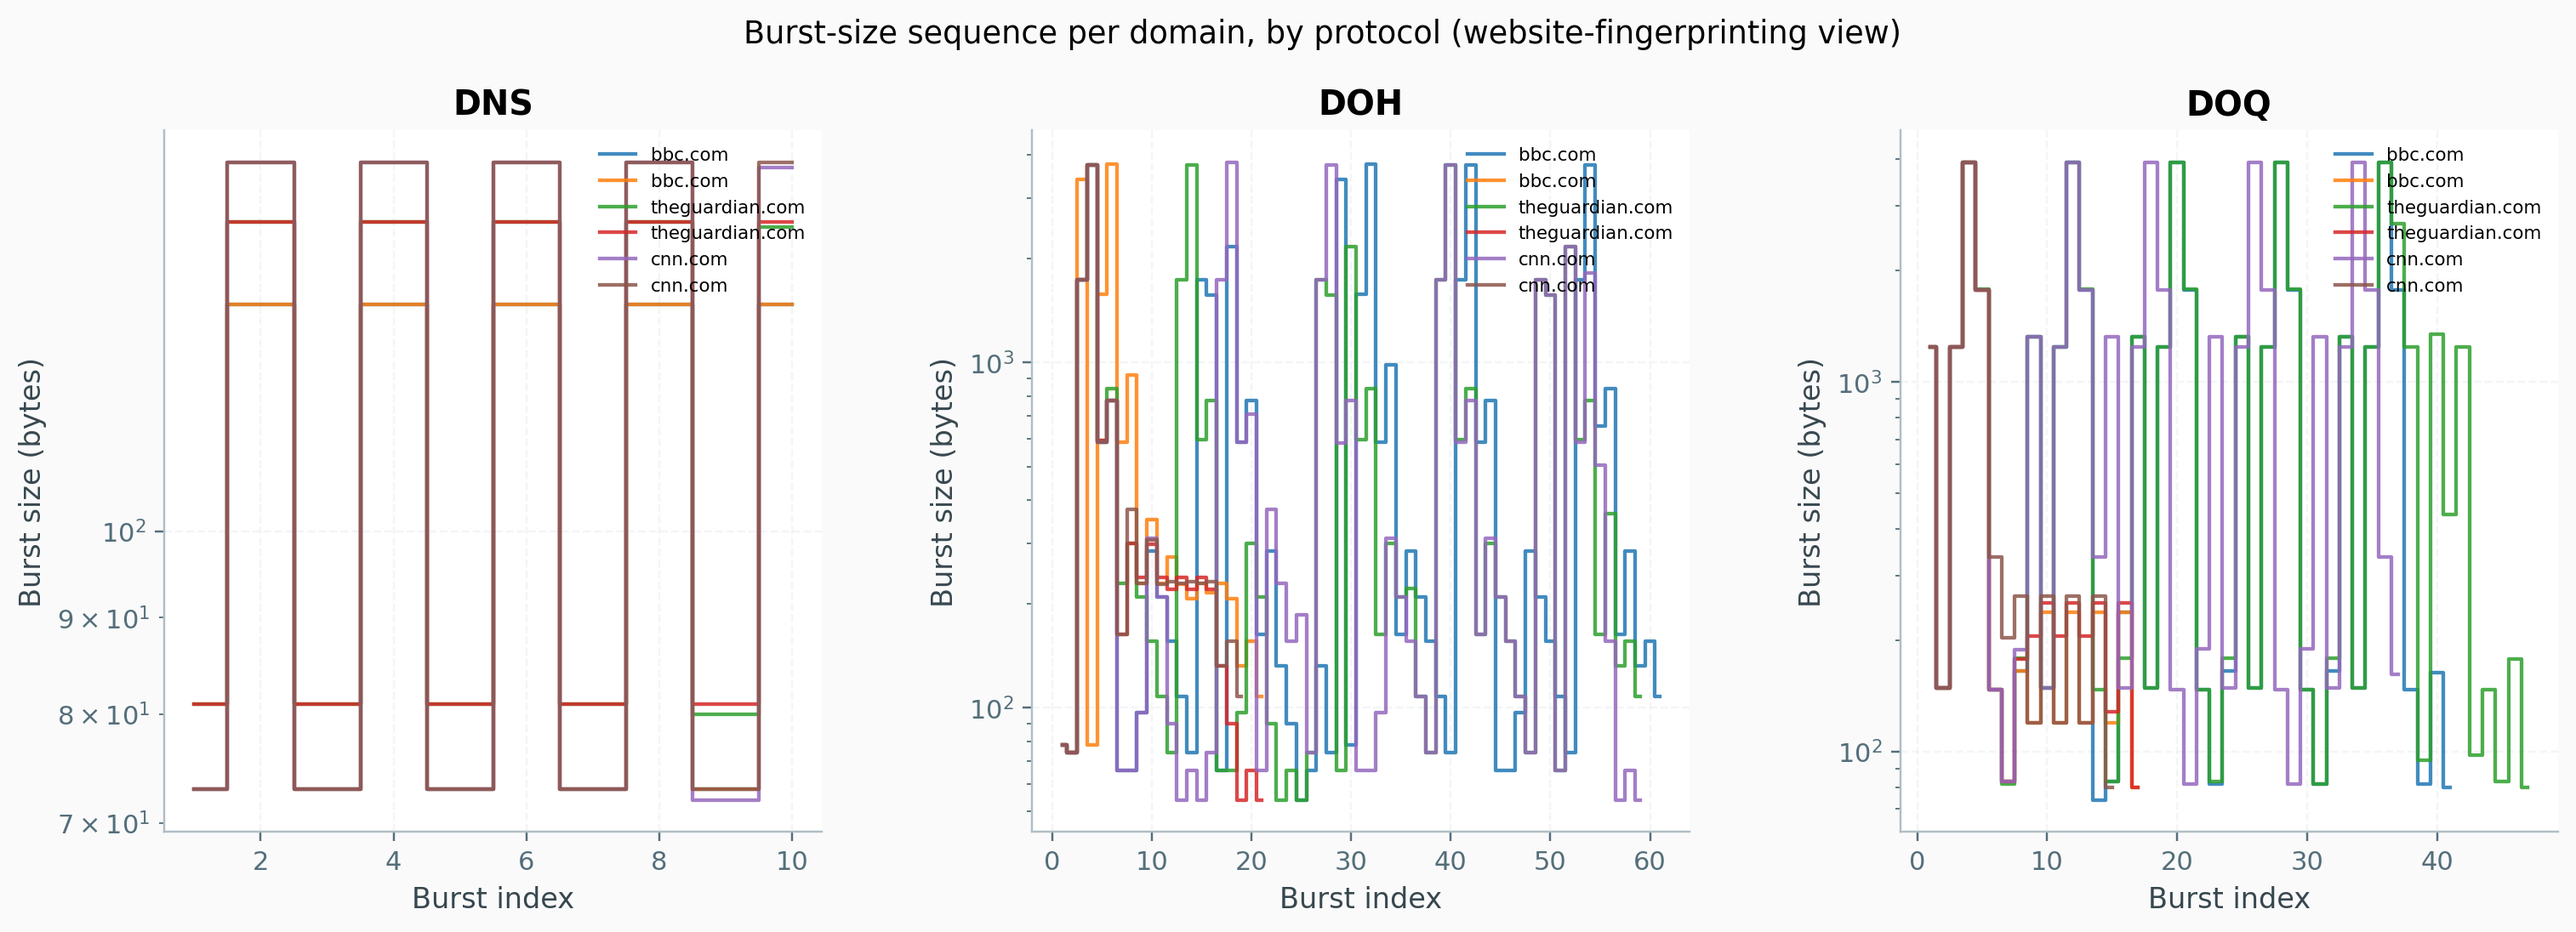
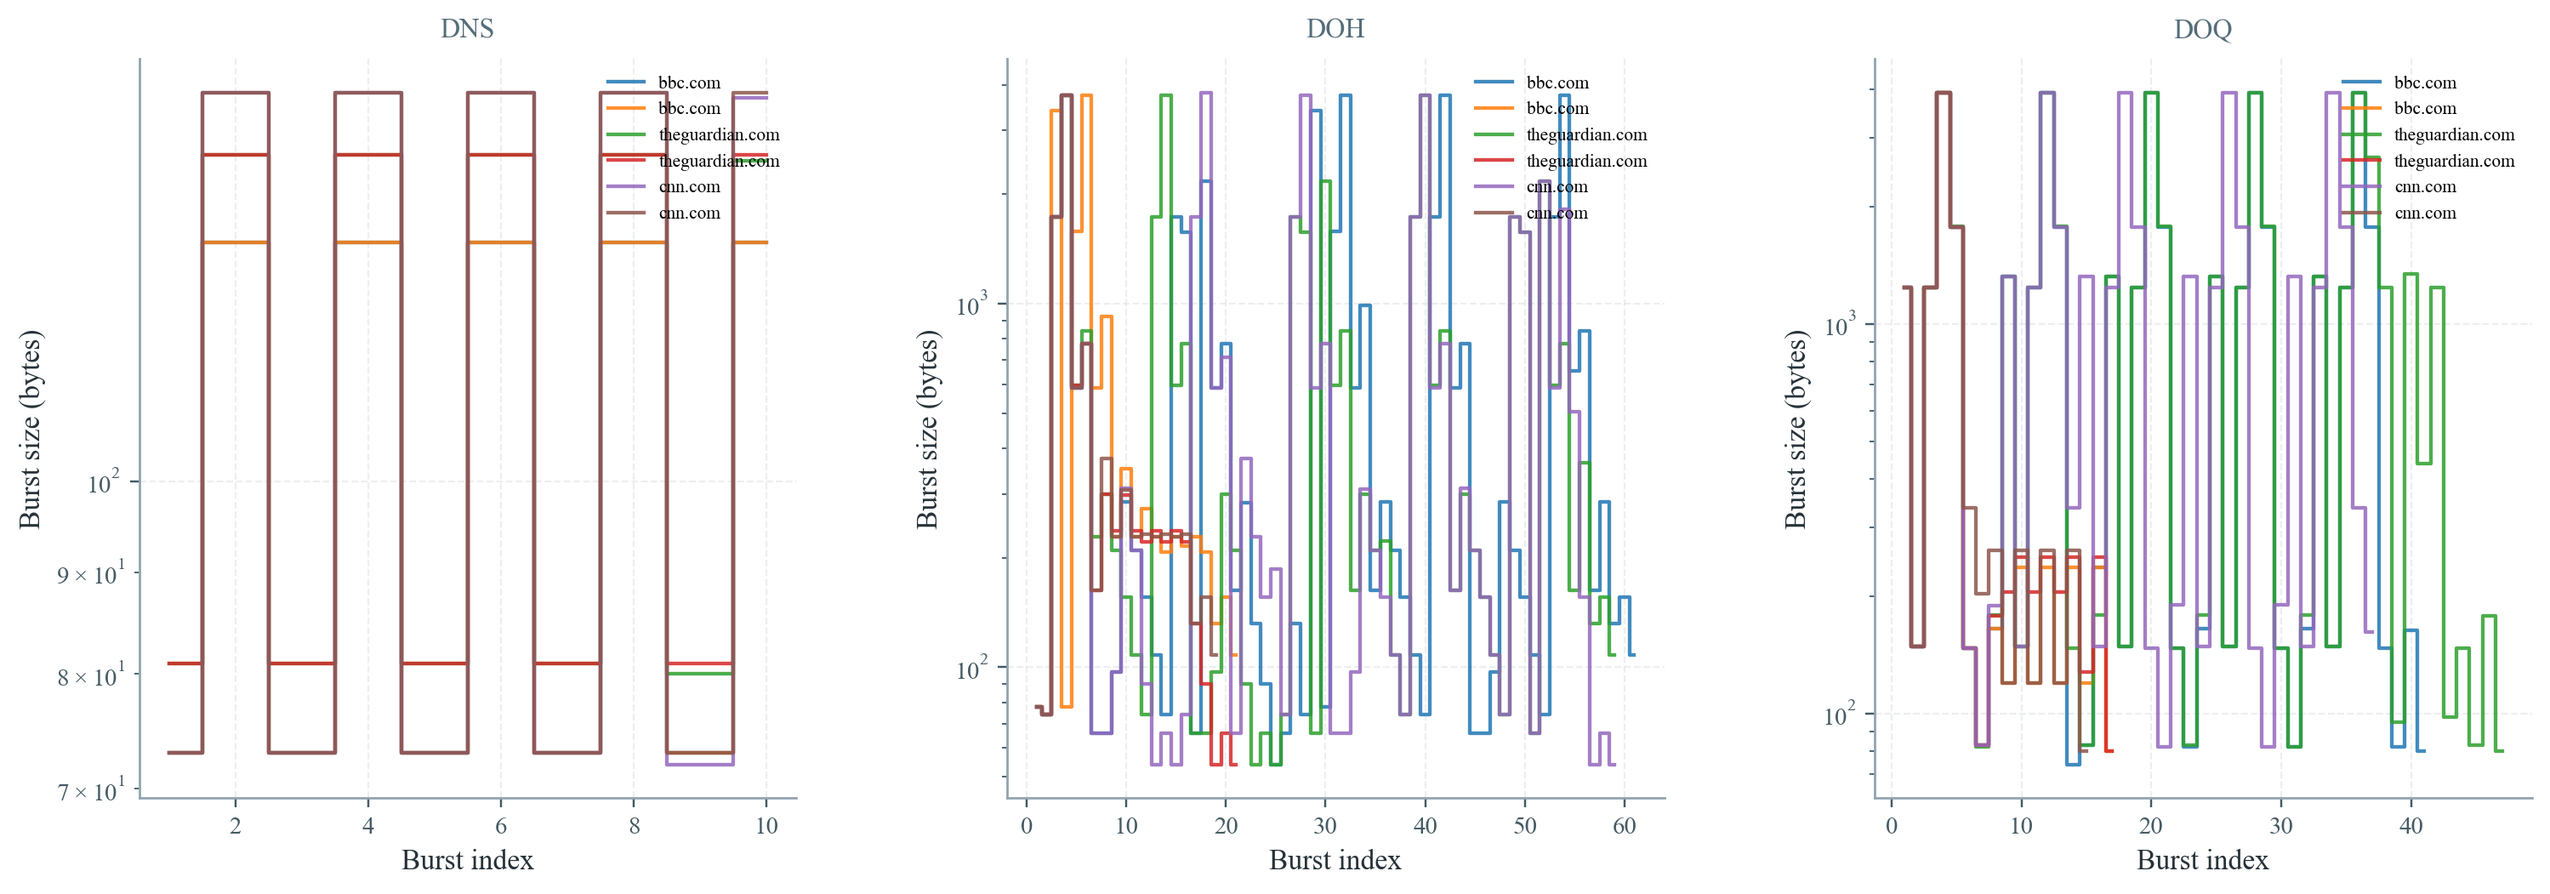
last_changes

diff --git a/src/run_analysis.py b/src/run_analysis.py
@@ -59,20 +59,31 @@ ORIGIN_LABELS = {
 }
 
 PLOT_STYLE = {
-    "figure.facecolor": "#FAFAFA",
+    "figure.facecolor": "#FFFFFF",
     "axes.facecolor": "#FFFFFF",
-    "axes.edgecolor": "#B0BEC5",
-    "axes.labelcolor": "#37474F",
-    "axes.titleweight": "600",
-    "axes.titlesize": 13,
+    "axes.edgecolor": "#90A4AE",
+    "axes.linewidth": 0.9,
+    "axes.labelcolor": "#263238",
     "axes.labelsize": 11,
-    "xtick.color": "#546E7A",
-    "ytick.color": "#546E7A",
-    "font.family": "sans-serif",
-    "font.sans-serif": ["DejaVu Sans", "Arial", "Helvetica"],
-    "grid.color": "#ECEFF1",
-    "grid.linewidth": 0.8,
+    "axes.labelweight": "500",
+    "xtick.color": "#455A64",
+    "ytick.color": "#455A64",
+    "xtick.labelsize": 9.5,
+    "ytick.labelsize": 9.5,
+    "font.family": "serif",
+    "font.serif": ["Nimbus Roman", "Times New Roman", "DejaVu Serif"],
+    "grid.color": "#E0E4E7",
+    "grid.linewidth": 0.7,
+    "legend.fontsize": 9,
+    "legend.frameon": False,
 }
+
+# Small, muted style for panel labels inside multi-panel figures (e.g. the
+# dashboard, or a bar+pie pair showing the same data two ways). These are
+# navigational aids for telling subplots apart, not a figure title: the
+# figure title itself lives only in the LaTeX \caption, never inside the
+# image, so it is never duplicated on the page.
+PANEL_LABEL_STYLE = {"fontsize": 10.5, "color": "#546E7A", "fontweight": "500", "pad": 8}
 
 
 ## AÑADIR JUSTIFICACIONES ???
@@ -467,7 +478,6 @@ def _plot_dns_protocol_comparison(path: Path, dns_summary: list[dict[str, Any]])
     fig, ax = plt.subplots(figsize=(8.5, 5.8))
     bars = ax.bar(labels, values, color=colors, width=0.58, edgecolor="white", linewidth=1.2)
 
-    ax.set_title("Median DNS traffic by protocol", pad=18)
     ax.set_ylabel("Bytes per resolution (median)")
     ax.set_yscale("log")
     ax.grid(axis="y", linestyle="--", alpha=0.9)
@@ -490,7 +500,7 @@ def _plot_dns_protocol_comparison(path: Path, dns_summary: list[dict[str, Any]])
             bbox={"boxstyle": "round,pad=0.35", "facecolor": "#ECEFF1", "edgecolor": "none"},
         )
 
-    fig.subplots_adjust(top=0.90, bottom=0.16)
+    fig.subplots_adjust(top=0.96, bottom=0.16)
     fig.text(
         0.12,
         0.05,
@@ -522,8 +532,7 @@ def _plot_dns_co2_by_protocol(path: Path, dns_summary: list[dict[str, Any]]) -> 
     fig, ax = plt.subplots(figsize=(8.5, 5.8))
     bars = ax.bar(labels, values, color=colors, width=0.58, edgecolor="white", linewidth=1.2)
 
-    ax.set_title("Median estimated CO₂ per resolution, by protocol", pad=18)
-    ax.set_ylabel("kg CO₂e (5 repetitions, median)")
+    ax.set_ylabel("kg CO$_2$e (5 repetitions, median)")
     ax.grid(axis="y", linestyle="--", alpha=0.9)
     ax.spines["top"].set_visible(False)
     ax.spines["right"].set_visible(False)
@@ -534,7 +543,7 @@ def _plot_dns_co2_by_protocol(path: Path, dns_summary: list[dict[str, Any]]) -> 
             ha="center", va="bottom", fontsize=9, color="#37474F",
         )
 
-    fig.subplots_adjust(top=0.90, bottom=0.14)
+    fig.subplots_adjust(top=0.96, bottom=0.14)
     fig.text(
         0.12, 0.04,
         "Same energy/CO2 model as the rest of the run (bytes measured × energy-per-byte × grid intensity)",
@@ -582,14 +591,13 @@ def _plot_overhead_breakdown(path: Path, dns_summary: list[dict[str, Any]]) -> b
         if total > 0 and h > 0:
             ax.text(i, total * 1.02, f"{h / total * 100:.0f}% handshake", ha="center", fontsize=8.5, color="#546E7A")
 
-    ax.set_title("Overhead breakdown by protocol", pad=18)
     ax.set_ylabel("Bytes per experiment (5 repetitions)")
     ax.legend(frameon=False, loc="upper left")
     ax.grid(axis="y", linestyle="--", alpha=0.9)
     ax.spines["top"].set_visible(False)
     ax.spines["right"].set_visible(False)
 
-    fig.subplots_adjust(top=0.90, bottom=0.12)
+    fig.subplots_adjust(top=0.96, bottom=0.12)
     fig.text(
         0.12, 0.03,
         "Decrypted with saved TLS/QUIC session keys · DoQ short-header bytes mix real "
@@ -641,7 +649,7 @@ def _plot_burst_patterns(path: Path, dns_bursts: list[dict[str, Any]], max_domai
                 label=entry.get("domain") or entry.get("site_label") or "?",
             )
             plotted += 1
-        ax.set_title(protocol.upper())
+        ax.set_title(protocol.upper(), **PANEL_LABEL_STYLE)
         ax.set_xlabel("Burst index")
         ax.set_ylabel("Burst size (bytes)")
         ax.set_yscale("log")
@@ -651,8 +659,7 @@ def _plot_burst_patterns(path: Path, dns_bursts: list[dict[str, Any]], max_domai
         if plotted:
             ax.legend(fontsize=7, frameon=False, loc="upper right")
 
-    fig.suptitle("Burst-size sequence per domain, by protocol (website-fingerprinting view)", fontsize=12)
-    fig.subplots_adjust(top=0.86, wspace=0.32)
+    fig.subplots_adjust(top=0.90, wspace=0.32)
     _save_figure(plt, path)
     return True
 
@@ -698,7 +705,6 @@ def _plot_web_overhead_scatter(path: Path, web_rows: list[dict[str, str]]) -> bo
     ax.set_yscale("log")
     ax.set_xlabel("CDP bytes (browser payload)")
     ax.set_ylabel("PCAP bytes (network capture)")
-    ax.set_title(f"Network overhead across {len(web_rows)} site visits", pad=14)
     ax.grid(True, which="both", linestyle="--", alpha=0.5)
     ax.spines["top"].set_visible(False)
     ax.spines["right"].set_visible(False)
@@ -759,7 +765,6 @@ def _plot_web_bytes_by_category(path: Path, web_rows: list[dict[str, str]]) -> b
     ax.set_xticklabels([_category_label(c) for c in categories], rotation=30, ha="right")
     ax.set_xlim(min(positions_pcap) - 1.1, max(positions_cdp) + 1.1)
     ax.set_ylabel("Bytes (log scale)")
-    ax.set_title("Web traffic by category: network capture vs browser payload", pad=14)
     ax.grid(axis="y", linestyle="--", alpha=0.7)
     ax.spines["top"].set_visible(False)
     ax.spines["right"].set_visible(False)
@@ -806,17 +811,15 @@ def _plot_overhead_by_category(path: Path, web_rows: list[dict[str, str]]) -> bo
     ax.set_xticks(range(1, len(categories) + 1))
     ax.set_xticklabels([_category_label(c) for c in categories], rotation=30, ha="right")
     ax.set_ylabel("PCAP vs CDP overhead (%)")
-    ax.set_title("Network overhead by category", pad=34)
-    # Outside the axes, not "upper right" - an in-plot legend collided with
+    # Outside the axes, not "upper right": an in-plot legend collided with
     # real outlier points for whichever rightmost category happened to have
     # a high overhead value that run (e.g. netflix's 878.7% sat right behind
-    # the legend box and was easy to miss). Placed above the title (not just
-    # above the axes) so it doesn't collide with that either.
-    ax.legend(frameon=False, loc="lower center", bbox_to_anchor=(0.5, 1.1), ncol=1)
+    # the legend box and was easy to miss).
+    ax.legend(frameon=False, loc="lower center", bbox_to_anchor=(0.5, 1.04), ncol=1)
     ax.grid(axis="y", linestyle="--", alpha=0.7)
     ax.spines["top"].set_visible(False)
     ax.spines["right"].set_visible(False)
-    fig.subplots_adjust(top=0.85)
+    fig.subplots_adjust(top=0.90)
     _save_figure(plt, path)
     return True
 
@@ -851,8 +854,7 @@ def _plot_cfp_by_category(path: Path, web_category_summary: list[dict[str, Any]]
     )
     ax.set_xticks(range(len(categories)))
     ax.set_xticklabels([_category_label(c) for c in categories], rotation=30, ha="right")
-    ax.set_ylabel("Median CO₂ per page load (kg CO₂e), error bars = IQR")
-    ax.set_title("Estimated carbon footprint by site category", pad=14)
+    ax.set_ylabel("Median CO$_2$ per page load (kg CO$_2$e), error bars = IQR")
     ax.grid(axis="y", linestyle="--", alpha=0.7)
     ax.spines["top"].set_visible(False)
     ax.spines["right"].set_visible(False)
@@ -916,7 +918,6 @@ def _plot_origin_distribution(path: Path, origin_summary: list[dict[str, Any]]) 
     ax_bar.set_yticklabels(labels, fontsize=11)
     ax_bar.invert_yaxis()
     ax_bar.set_xlabel("Total CDP bytes")
-    ax_bar.set_title("CDP traffic by resource origin", pad=14, fontsize=13, fontweight="600")
     ax_bar.set_xlim(0, xmax)
     ax_bar.xaxis.set_major_locator(MaxNLocator(nbins=5))
     ax_bar.xaxis.set_major_formatter(
@@ -955,15 +956,15 @@ def _plot_origin_distribution(path: Path, origin_summary: list[dict[str, Any]]) 
         frameon=False,
         fontsize=10,
     )
-    ax_pie.set_title("Percentage breakdown", pad=12, fontsize=12)
+    ax_pie.set_title("Percentage breakdown", **PANEL_LABEL_STYLE)
 
     fig.text(
         0.01, 0.01,
         "Tracker/ads share is a high-confidence subset (precision over recall, see Issue "
-        "16) - a lower bound, not an exhaustive count of tracking traffic",
+        "16): a lower bound, not an exhaustive count of tracking traffic",
         fontsize=7.5, color="#78909C",
     )
-    fig.subplots_adjust(left=0.14, right=0.78, top=0.96, bottom=0.1, hspace=0.55)
+    fig.subplots_adjust(left=0.14, right=0.78, top=0.97, bottom=0.1, hspace=0.5)
     _save_figure(plt, path)
     return True
 
@@ -1009,7 +1010,6 @@ def _plot_resource_type_distribution(path: Path, type_summary: list[dict[str, An
     ax_bar.set_yticklabels(labels, fontsize=11)
     ax_bar.invert_yaxis()
     ax_bar.set_xlabel("Total CDP bytes")
-    ax_bar.set_title("CDP traffic by resource type", pad=14, fontsize=13, fontweight="600")
     ax_bar.set_xlim(0, xmax)
     ax_bar.xaxis.set_major_locator(MaxNLocator(nbins=5))
     ax_bar.xaxis.set_major_formatter(
@@ -1048,9 +1048,9 @@ def _plot_resource_type_distribution(path: Path, type_summary: list[dict[str, An
         frameon=False,
         fontsize=10,
     )
-    ax_pie.set_title("Percentage breakdown", pad=12, fontsize=12)
+    ax_pie.set_title("Percentage breakdown", **PANEL_LABEL_STYLE)
 
-    fig.subplots_adjust(left=0.14, right=0.78, top=0.96, bottom=0.06, hspace=0.55)
+    fig.subplots_adjust(left=0.14, right=0.78, top=0.97, bottom=0.06, hspace=0.5)
     _save_figure(plt, path)
     return True
 
@@ -1075,21 +1075,15 @@ def _plot_run_dashboard(
     color_map = _category_color_map(plt, categories)
 
     fig, axes = plt.subplots(2, 2, figsize=(13, 10))
-    fig.suptitle(
-        f"Experiment summary — {run_id} ({len(web_rows)} site visits)",
-        fontsize=15,
-        fontweight="600",
-        y=0.98,
-    )
 
-    # DNS — matches summary table (median bytes + overhead vs DNS)
+    # DNS: matches summary table (median bytes + overhead vs DNS)
     ax = axes[0, 0]
     dns_labels = [row["protocol"].upper() for row in dns_summary]
     dns_values = [row["median_bytes"] for row in dns_summary]
     dns_colors = [PROTOCOL_COLORS.get(row["protocol"], "#455A64") for row in dns_summary]
     bars = ax.bar(dns_labels, dns_values, color=dns_colors, edgecolor="white", width=0.58)
     ax.set_yscale("log")
-    ax.set_title("Median DNS traffic by protocol")
+    ax.set_title("Median DNS traffic by protocol", **PANEL_LABEL_STYLE)
     ax.set_ylabel("Bytes (log scale)")
     ax.grid(axis="y", linestyle="--", alpha=0.8)
     ax.spines["top"].set_visible(False)
@@ -1124,7 +1118,7 @@ def _plot_run_dashboard(
     ax.set_yscale("log")
     ax.set_xlabel("CDP bytes")
     ax.set_ylabel("PCAP bytes")
-    ax.set_title("Network overhead per site (colored by category)")
+    ax.set_title("Network overhead per site (colored by category)", **PANEL_LABEL_STYLE)
     ax.grid(True, which="both", linestyle="--", alpha=0.5)
     ax.spines["top"].set_visible(False)
     ax.spines["right"].set_visible(False)
@@ -1150,7 +1144,7 @@ def _plot_run_dashboard(
     ax.axhline(0, color="#C62828", linestyle="--", linewidth=1)
     ax.set_xticks(range(1, len(sorted_categories) + 1))
     ax.set_xticklabels([_category_label(c) for c in sorted_categories], rotation=30, ha="right")
-    ax.set_title("Overhead % by category")
+    ax.set_title("Overhead % by category", **PANEL_LABEL_STYLE)
     ax.set_ylabel("Overhead (%)")
     ax.grid(axis="y", linestyle="--", alpha=0.8)
     ax.spines["top"].set_visible(False)
@@ -1162,7 +1156,7 @@ def _plot_run_dashboard(
     origin_values = [row["bytes"] for row in origin_summary]
     origin_colors = [ORIGIN_COLORS.get(row["origin_class"], "#78909C") for row in origin_summary]
     legend_labels = [
-        f"{label} — {_format_bytes(row['bytes'])} ({row['pct_of_cdp_bytes']:.1f}%)"
+        f"{label}: {_format_bytes(row['bytes'])} ({row['pct_of_cdp_bytes']:.1f}%)"
         for label, row in zip(origin_labels, origin_summary)
     ]
     wedges, _texts, autotexts = ax.pie(
@@ -1183,16 +1177,16 @@ def _plot_run_dashboard(
         frameon=False,
         fontsize=8,
     )
-    ax.set_title("CDP traffic by origin (total)")
+    ax.set_title("CDP traffic by origin (total)", **PANEL_LABEL_STYLE)
 
     fig.text(
         0.01,
         0.01,
-        "Latest analyzed run · see summary.md",
+        f"Run {run_id} · {len(web_rows)} site visits",
         fontsize=8,
         color="#78909C",
     )
-    plt.tight_layout(rect=[0, 0.02, 1, 0.96])
+    plt.tight_layout(rect=[0, 0.02, 1, 0.99])
     _save_figure(plt, path, dpi=200)
     return True
 
